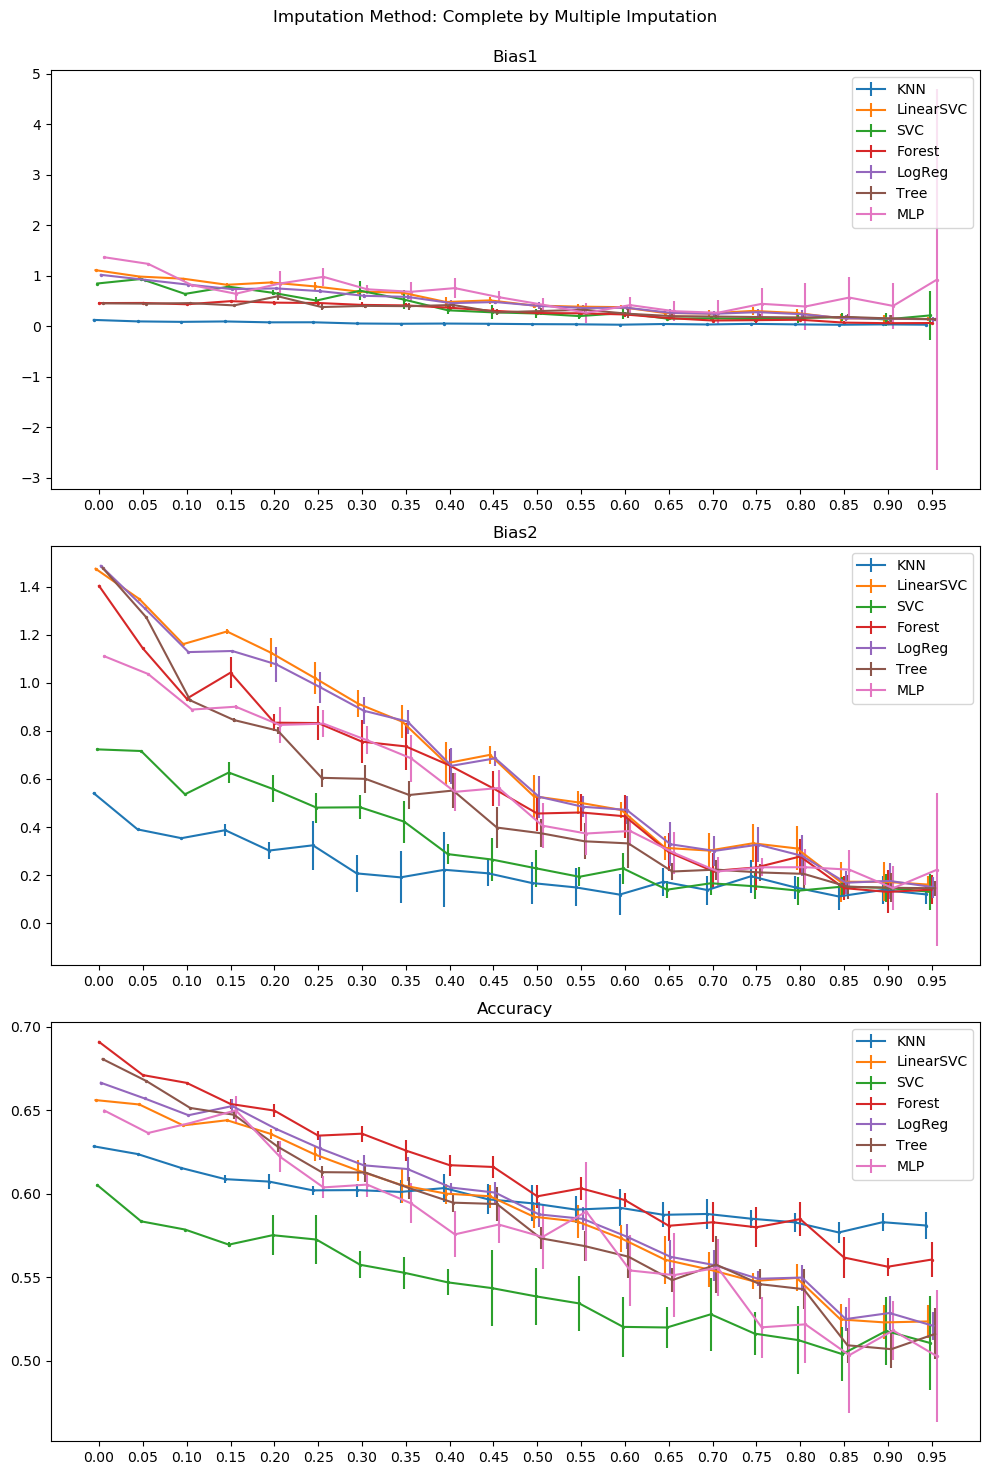
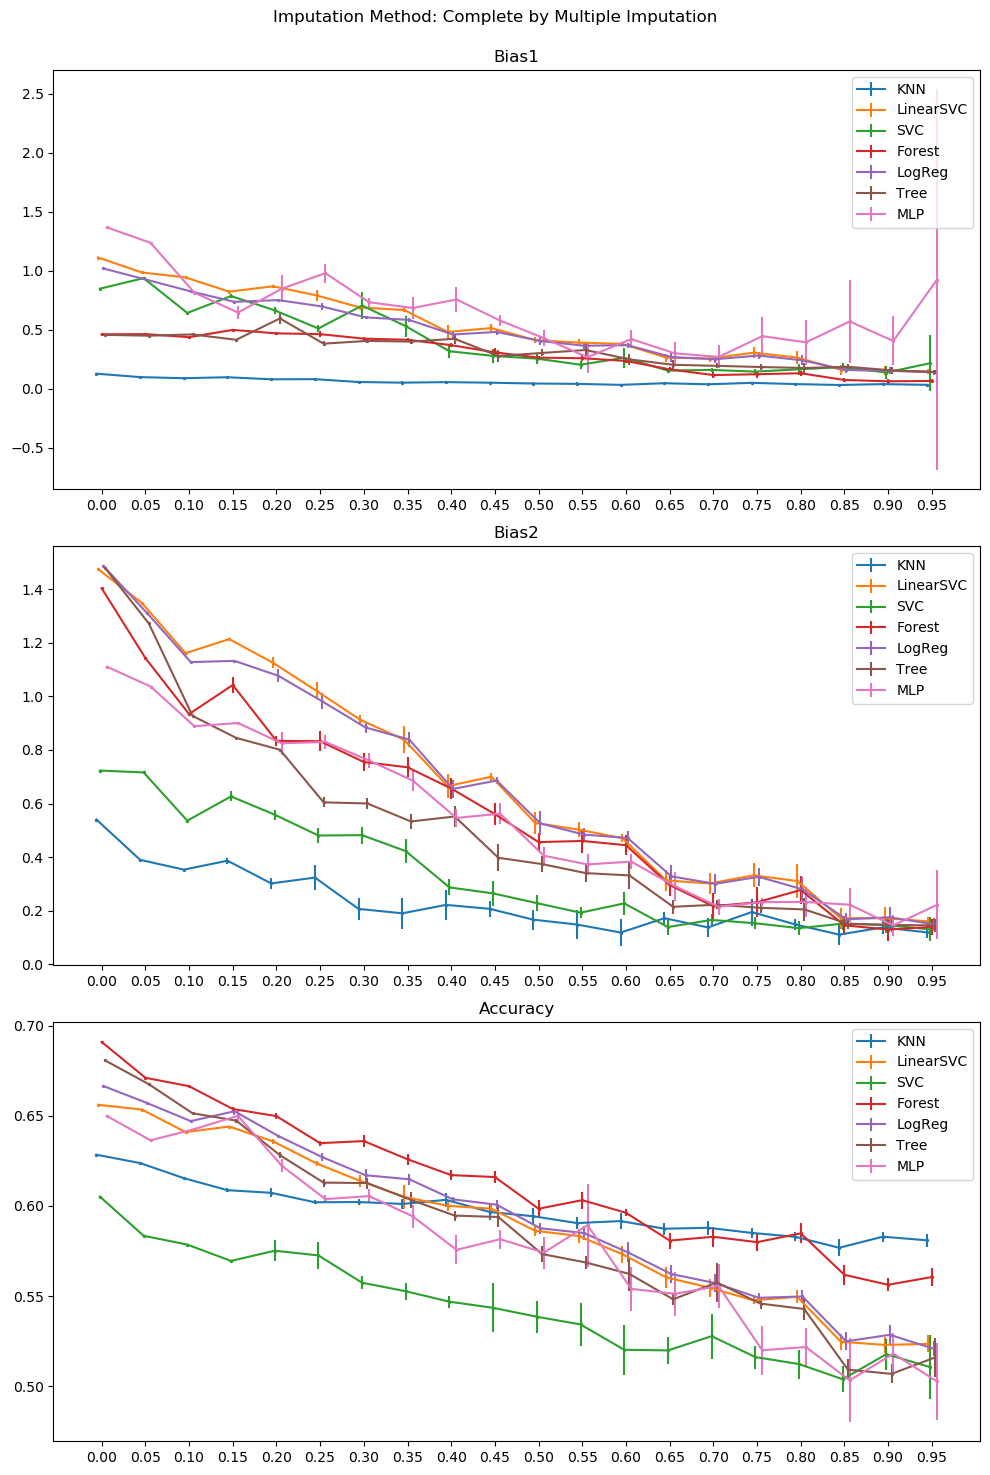
fix errorbar

diff --git a/script_plot.py b/script_plot.py
@@ -9,10 +9,10 @@ import matplotlib.pyplot as plt
 
 from script_parallel import iter_per_ratio, random_ratios
 
-PLOT_CREATE_MEAN        = False
-PLOT_CREATE_SIMILAR_V1  = False
+PLOT_CREATE_MEAN        = True
+PLOT_CREATE_SIMILAR_V1  = True
 PLOT_CREATE_SIMILAR_V2  = True
-PLOT_CREATE_MULTI       = False
+PLOT_CREATE_MULTI       = True
 
 def plot_func(data, method_name, file_name=None, bias1_ylim=None, bias2_ylim=None, plot_error=True):
     assert len(data) == (iter_per_ratio * len(random_ratios))
@@ -44,15 +44,15 @@ def plot_func(data, method_name, file_name=None, bias1_ylim=None, bias2_ylim=Non
                         tmp_data_processed[0].append(x)
                         tmp_data_processed[1].append(y)
                         tmp_data_processed[2].append(z)
-                data_processed[0].append(sum(tmp_data_processed[0]) / len(tmp_data_processed[0]))
-                data_processed[1].append(sum(tmp_data_processed[1]) / len(tmp_data_processed[1]))
-                data_processed[2].append(sum(tmp_data_processed[2]) / len(tmp_data_processed[2]))
-            plot_acc[clf][0].append(sum(data_processed[0]) / len(data_processed[0]))
-            plot_acc[clf][1].append((max(data_processed[0]) - min(data_processed[0])) / 2)
-            plot_bias1[clf][0].append(sum(data_processed[1]) / len(data_processed[1]))
-            plot_bias1[clf][1].append((max(data_processed[1]) - min(data_processed[1])) / 2)
-            plot_bias2[clf][0].append(sum(data_processed[2]) / len(data_processed[2]))
-            plot_bias2[clf][1].append((max(data_processed[2]) - min(data_processed[2])) / 2)
+                data_processed[0].append(np.mean(tmp_data_processed[0]))
+                data_processed[1].append(np.mean(tmp_data_processed[1]))
+                data_processed[2].append(np.mean(tmp_data_processed[2]))
+            plot_acc[clf][0].append(np.mean(data_processed[0]))
+            plot_acc[clf][1].append(np.std(data_processed[0]))
+            plot_bias1[clf][0].append(np.mean(data_processed[1]))
+            plot_bias1[clf][1].append(np.std(data_processed[1]))
+            plot_bias2[clf][0].append(np.mean(data_processed[2]))
+            plot_bias2[clf][1].append(np.std(data_processed[2]))
     plot_gap = 0.002
     fig, axes = plt.subplots(3, figsize=(10, 15))
     # axes[0] shows bias1
